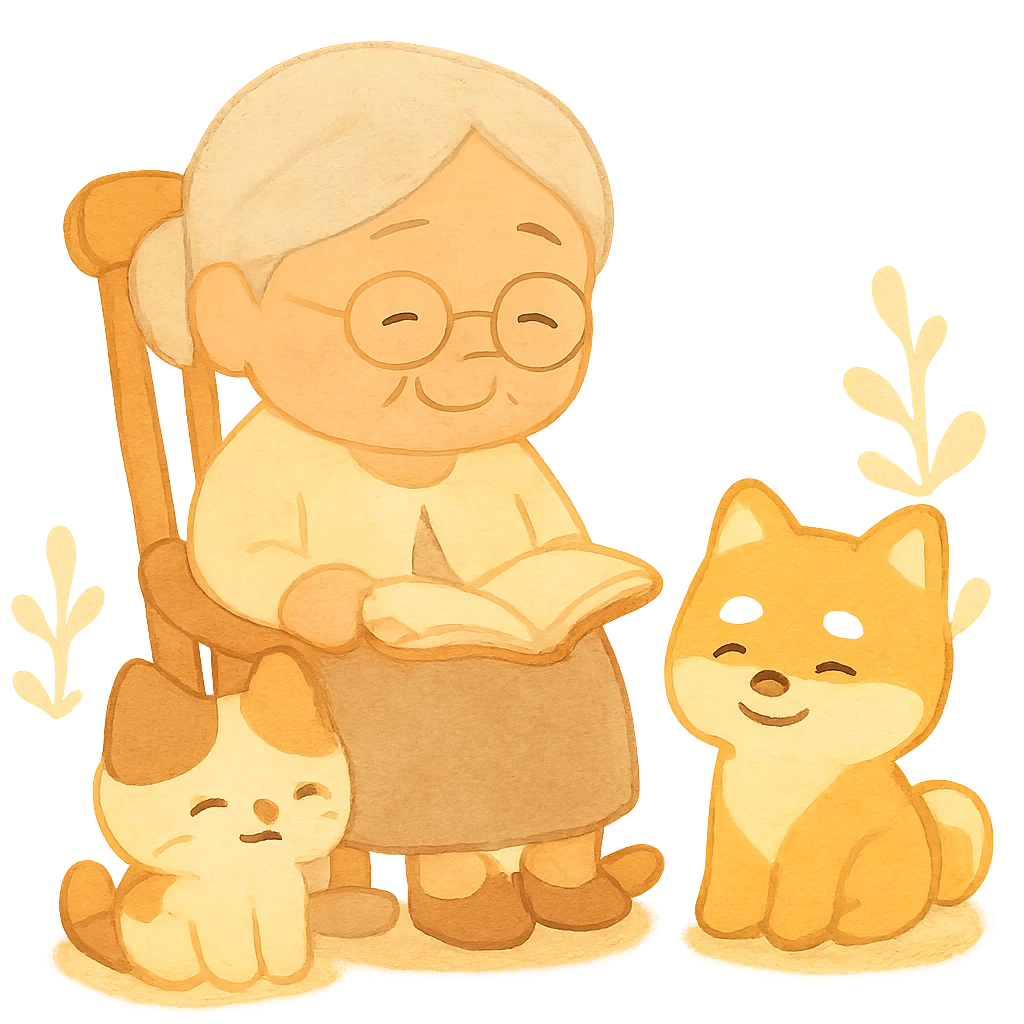
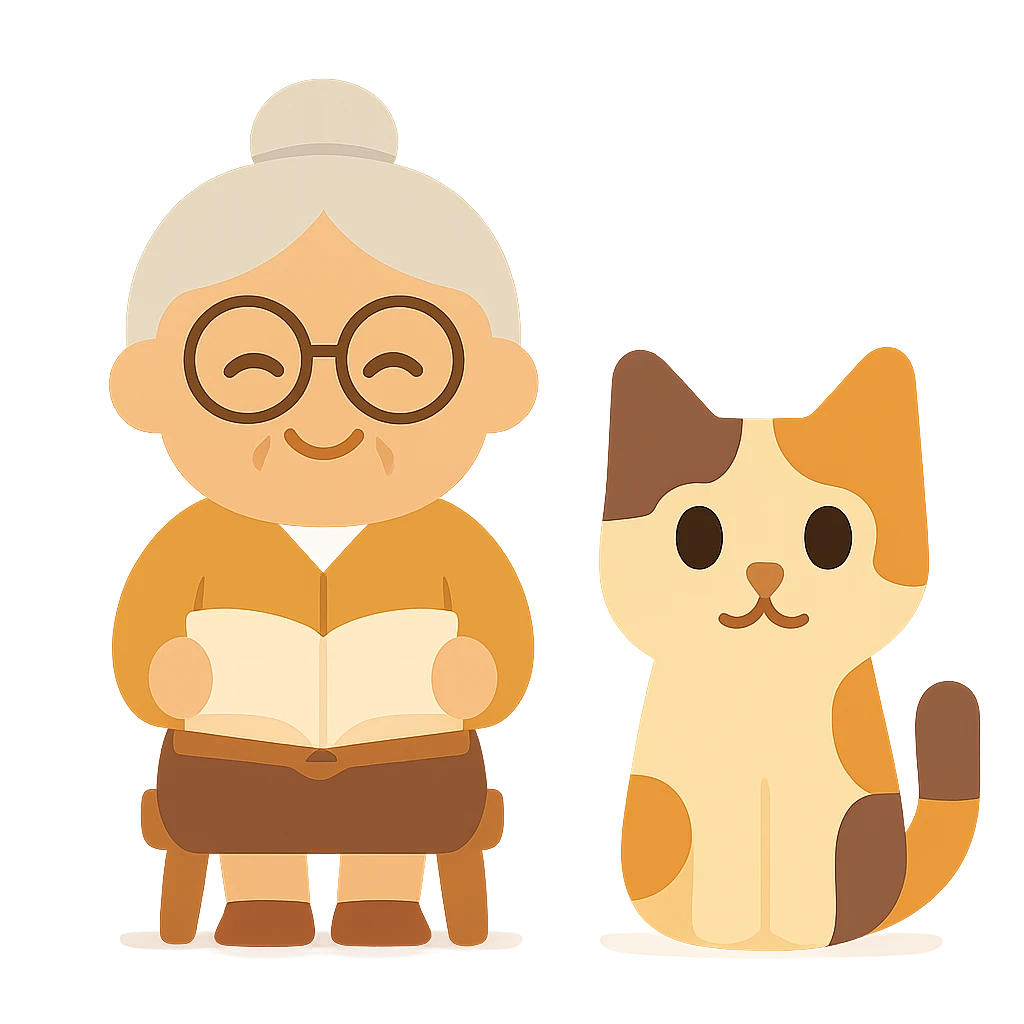
v2.0.B.43: wire Ch2-8 hero to new Duolingo flat grandma+Mochi vignette
ChapterIntroScene heroImg.src was hardcoded to scene-mochi-talking.webp regardless of chapter — meant Ch2-8 was incorrectly showing Mochi-alone (Ch1 framing). Added chapter-aware branch: Ch1 = scene-mochi-talking (Mochi tells her own story, 4th wall), Ch2-8 = scene-grandma-storytime (grandma reads bedtime story to Mochi — matches v2.0 spec inner-story framing). Replaced public/mascots/scene-grandma-storytime.webp content from old Pop Mart watercolor 3-char scene with new Duolingo flat grandma+Mochi vignette (B.42 generated). Hana not in hero — she appears in story content via dialogue + Ch2-8 lesson assets. Build verified dist contains both webp + branching code.

diff --git a/src/scenes/ChapterIntroScene.ts b/src/scenes/ChapterIntroScene.ts
@@ -165,7 +165,12 @@ export class ChapterIntroScene extends Phaser.Scene {
       document.head.appendChild(style);
     }
     const heroImg = document.createElement('img');
-    heroImg.src = '/mascots/scene-mochi-talking.webp';
+    // v2.0.B.43: chapter-aware hero. Ch1 = Mochi alone narrating her own
+    // origin story (4th-wall break). Ch2-8 = grandma reading bedtime story
+    // to Mochi (奶奶說 inner story 的構圖). Both in Duolingo flat icon style.
+    heroImg.src = chapter === 1
+      ? '/mascots/scene-mochi-talking.webp'
+      : '/mascots/scene-grandma-storytime.webp';
     heroImg.alt = '';
     applyStyle(heroImg, {
       width: '100%',